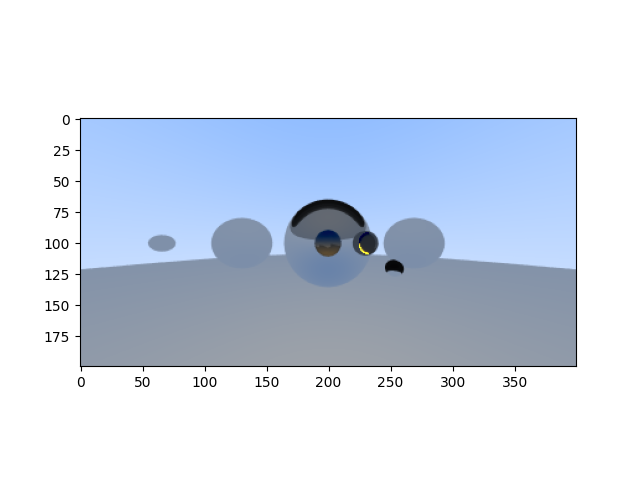
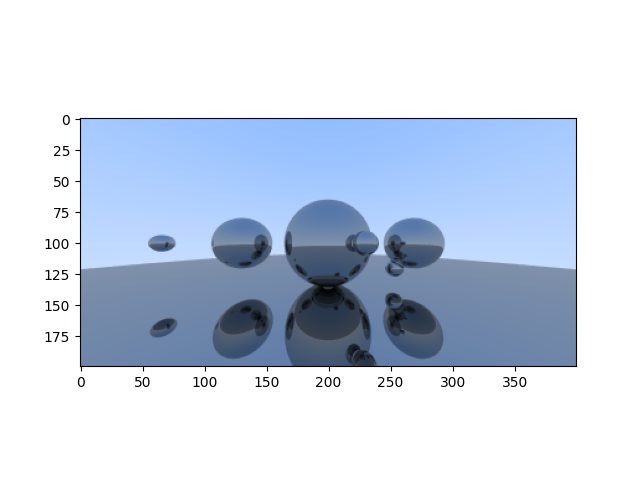
fix bugs, add tests

Changed region(s): [[0.125, 0.4062, 0.9062, 0.7812], [0.2188, 0.4688, 0.2812, 0.5312]]

diff --git a/python/rt/rt_vectorized/__init__.py b/python/rt/rt_vectorized/__init__.py
@@ -84,13 +84,19 @@ class SceneBuilder:
         return Camera(self.create(), jitter_passes=64)
 
 
+def normalize(vector_batch: npt.NDArray) -> npt.NDArray:
+    return vector_batch / np.sqrt(np.einsum("ij,ij->i", vector_batch, vector_batch))[:, np.newaxis]
+
+
 def env_colors(rays: Rays) -> npt.NDArray:
     t = (rays.directions[:, 1] + 1) * 0.5
     env_colors = (1 - t)[:, np.newaxis] * np.ones([len(rays.directions), 3]) + t[:, np.newaxis] * np.array([0.5, 0.7, 1])
     return env_colors
 
 
-def hit(rays: Rays, spheres: Spheres) -> npt.NDArray:
+def hit(rays: Rays, spheres: Spheres, max_depth: int = 32) -> npt.NDArray:
+    if max_depth <= 0:
+        return np.zeros(rays.directions.shape)
     origins = rays.origins
     dim = len(origins)
     acc = np.full(dim, np.inf)
@@ -105,31 +111,29 @@ def hit(rays: Rays, spheres: Spheres) -> npt.NDArray:
         d = b * b - c * 4.0
         hits = d > 0.0
         t = np.full(dim, np.inf)
-        t[hits] = -b[hits] - np.sqrt(d[hits]) / 2
-        t[t < 0.001] = np.inf
+        t[hits] = (-b[hits] - np.sqrt(d[hits])) / 2
+        t[t < 1e-2] = np.inf
         should_update = t < acc
         acc[should_update] = t[should_update]
         indices[should_update] = i + 1
         hitpoints[should_update] = origins[should_update] + rays.directions[should_update] * t[should_update, np.newaxis]
-        normals[should_update] = hitpoints[should_update] - center
-        normals[should_update] /= np.einsum("ij,ij->i", normals[should_update], normals[should_update])[:, np.newaxis]
+        normals[should_update] = normalize(hitpoints[should_update] - center)
     updated = indices != 0
-    updated_len = sum(updated)
-    reflected_directions = (
-        rays.directions[updated] -
-        2 * normals[updated] *
-        np.einsum(
-            "ij,ij->i",
-            rays.directions[updated],
-            normals[updated]
-        )[:, np.newaxis]
-    )
-    if updated_len > 0:
+    if any(updated) > 0:
         env[updated] = hit(
             Rays(
                 origins=hitpoints[updated],
-                directions=reflected_directions
+                directions=reflect(rays.directions[updated], normals[updated])
             ),
-            spheres=spheres
+            spheres=spheres,
+            max_depth=max_depth - 1
         ) / 1.5
     return env
+
+
+def reflect(directions: npt.NDArray, normals: npt.NDArray, ) -> npt.NDArray:
+    reflect_direction = (
+        directions - 2 * normals *
+        np.einsum("ij,ij->i", directions, normals)[:, np.newaxis]
+    )
+    return normalize(reflect_direction)

diff --git a/python/rt/rt_vectorized/test_rt.py b/python/rt/rt_vectorized/test_rt.py
@@ -1,0 +1,46 @@
+import pytest
+import numpy as np
+from . import reflect, normalize
+
+
+def test_normalize():
+    vectors = np.array(
+        [
+            [1, 0, 0],
+            [2, 0, 0],
+            [1, 1, 0],
+            [25, 25, 0],
+        ]
+    )
+
+    expected_vectors = normalize(np.array(
+        [
+            [1, 0, 0],
+            [1, 0, 0],
+            [0.7071067812, 0.7071067812, 0],
+            [0.7071067812, 0.7071067812, 0],
+        ]
+    ))
+    np.testing.assert_allclose(normalize(vectors), expected_vectors)
+
+
+@pytest.mark.parametrize(
+    "direction,normal,expected,msg",
+    [
+        ([1, 0, 0], [-1, 0, 0], [-1, 0, 0], "horizontal reflection"),
+        ([2, 0, 0], [-1, 0, 0], [-1, 0, 0], "horizontal reflection and normalization"),
+        ([1, 1, 0], [-1, 0, 0], [-1, 1, 0], "horizontal reflection with vertical component"),
+        ([1, 0, 0], [-1, -1, 0], [0, -1, 0], "right to down reflection"),
+        ([1, 0, 0], [1, 0, 0], [-1, 0, 0], "horizontal reflection (back side)"),
+    ]
+)
+def test_reflection(direction, normal, expected, msg):
+    directions = np.array([direction])
+    normals = normalize(np.array([normal]))
+    expected_directions = normalize(np.array([expected]))
+    np.testing.assert_allclose(
+        reflect(directions=directions, normals=normals),
+        expected_directions,
+        atol=1e-10,
+        err_msg=msg
+    )
